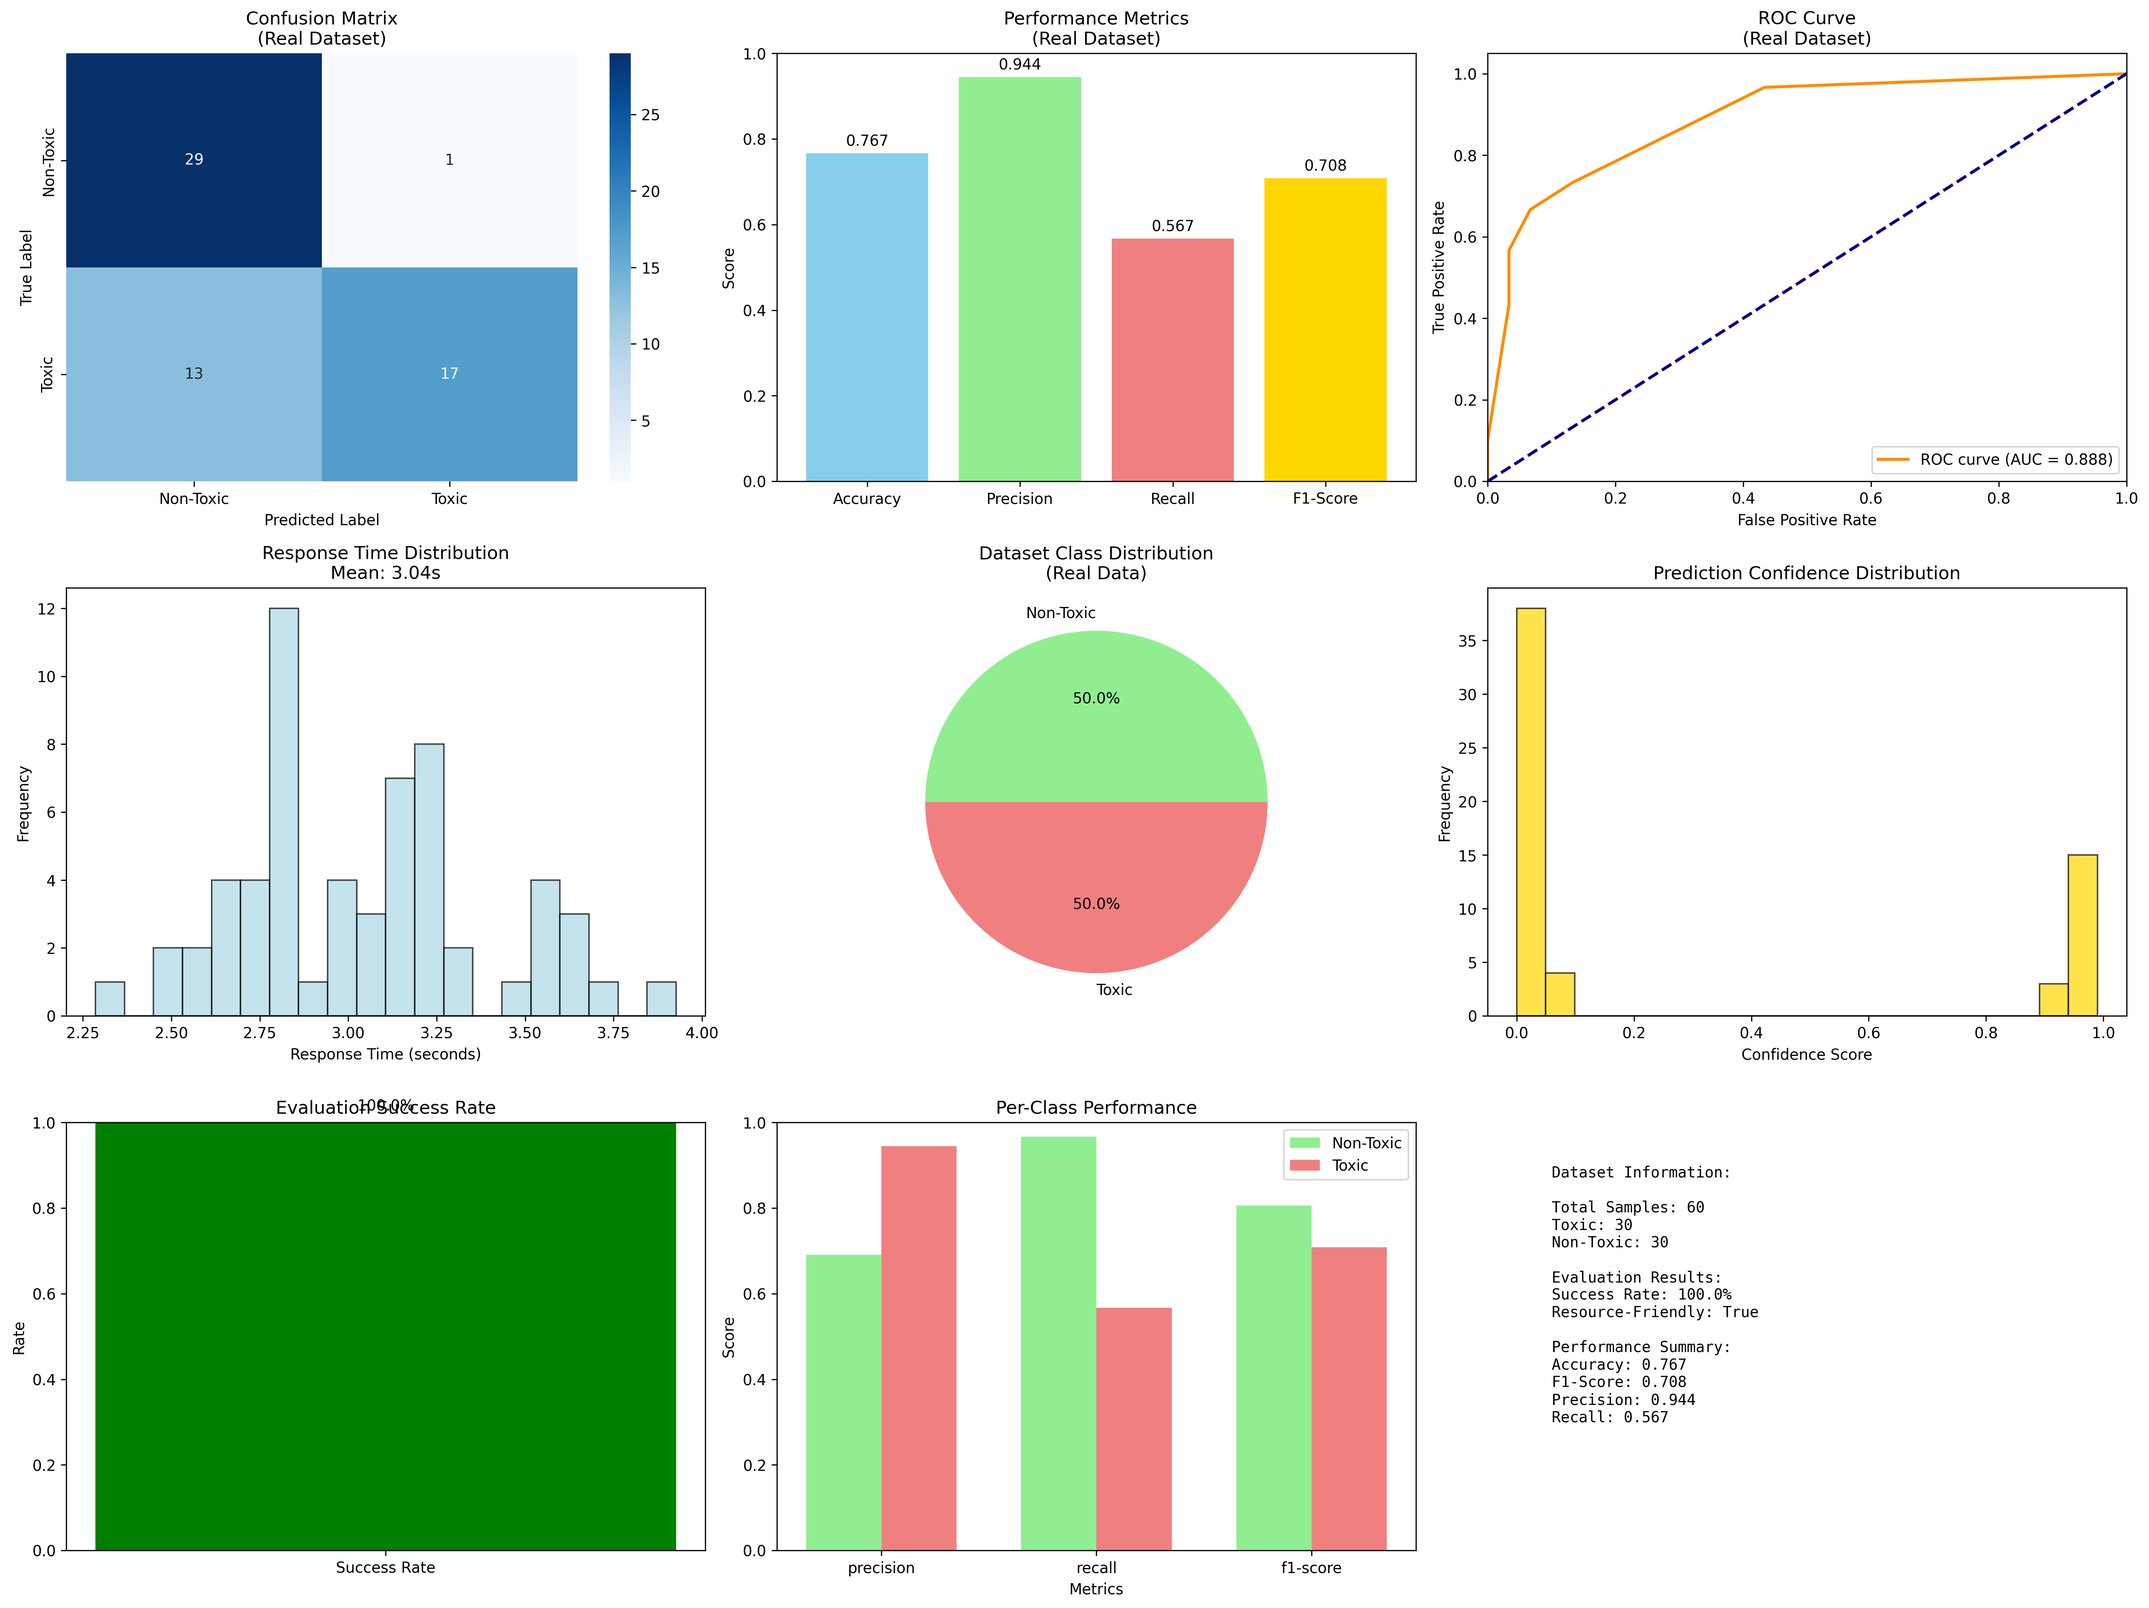
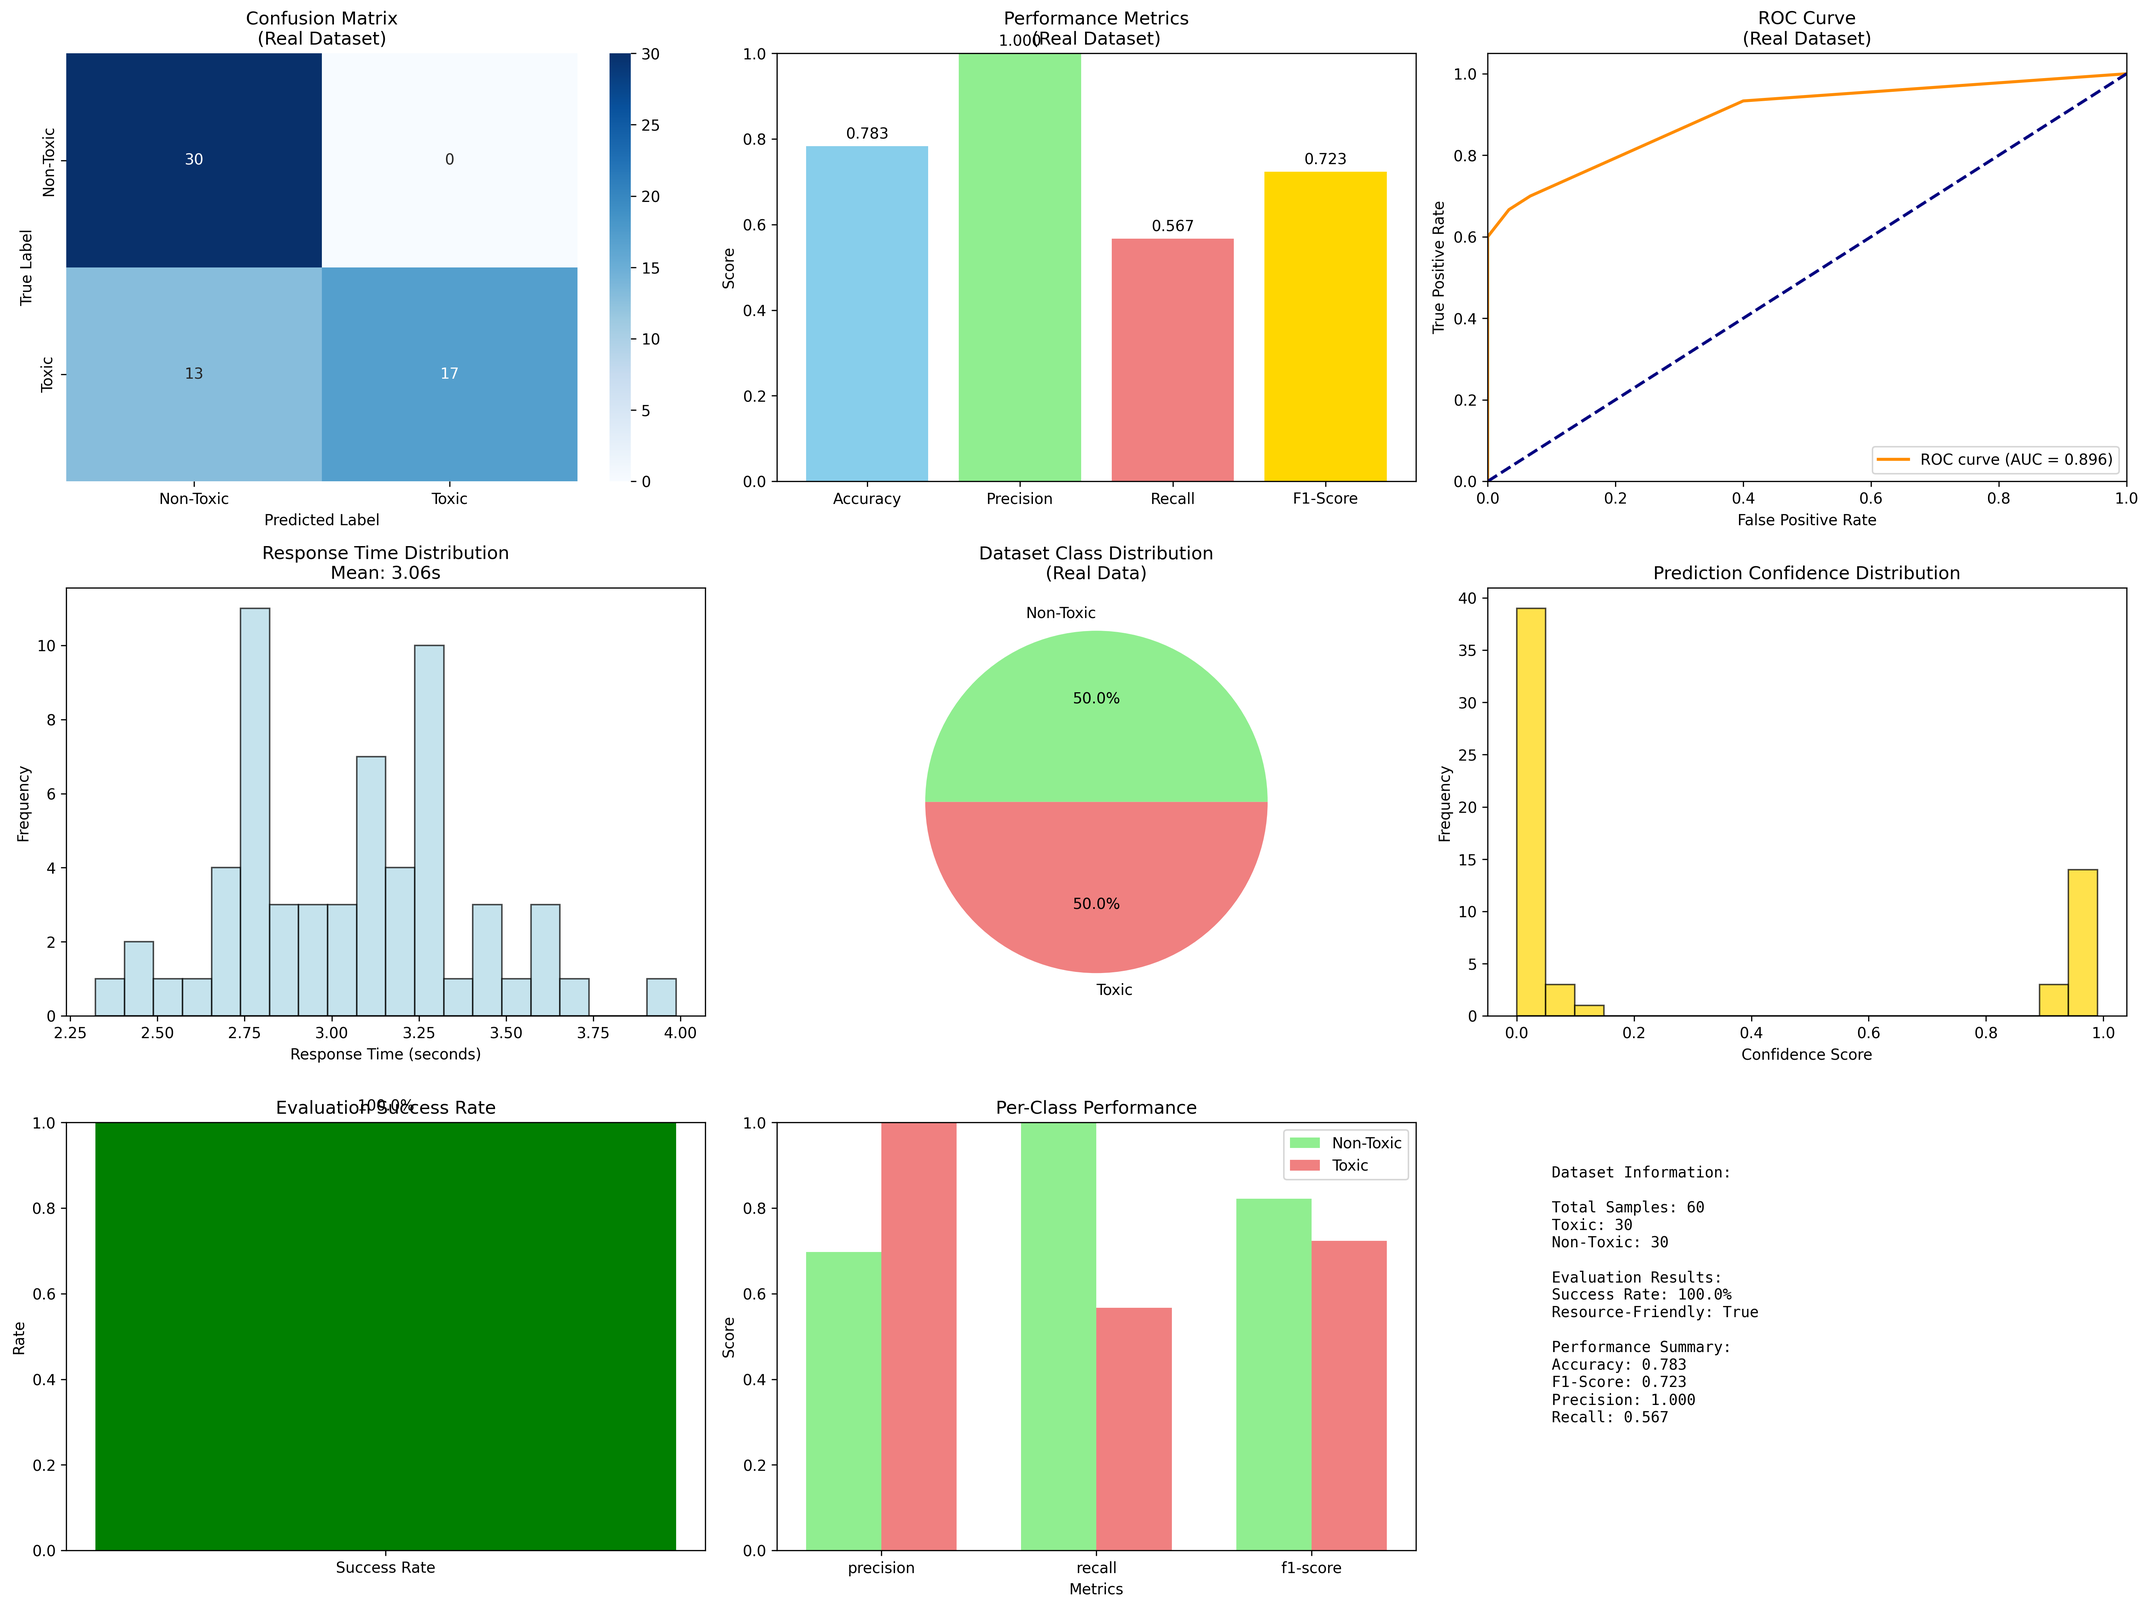
retest mistral

diff --git a/full-analysis-mistral/analysis/dissertation_export/reports/model_performance_evaluation.md b/full-analysis-mistral/analysis/dissertation_export/reports/model_performance_evaluation.md
@@ -1,5 +1,5 @@
 # Model Performance Evaluation Report
-## Real Dataset Analysis - 2025-08-14 13:10:54
+## Real Dataset Analysis - 2025-08-17 23:11:50
 
 ### Executive Summary
 This report presents a comprehensive evaluation of the real-time moderation system using the SetFit/toxic_conversations dataset. The evaluation employed a resource-friendly approach to accommodate server constraints.
@@ -22,37 +22,37 @@ This report presents a comprehensive evaluation of the real-time moderation syst
 ### Performance Metrics
 
 #### Classification Performance
-- **Accuracy**: 0.7667 (76.7%)
-- **Precision**: 0.9444 (94.4%)
+- **Accuracy**: 0.7833 (78.3%)
+- **Precision**: 1.0000 (100.0%)
 - **Recall**: 0.5667 (56.7%)
-- **F1-Score**: 0.7083 (70.8%)
-- **ROC AUC**: 0.8883
+- **F1-Score**: 0.7234 (72.3%)
+- **ROC AUC**: 0.8961
 
 #### Response Time Analysis
-- **Mean Response Time**: 3.040 seconds
-- **Median Response Time**: 3.021 seconds
-- **Standard Deviation**: 0.352 seconds
-- **Min Response Time**: 2.285 seconds
-- **Max Response Time**: 3.927 seconds
+- **Mean Response Time**: 3.058 seconds
+- **Median Response Time**: 3.117 seconds
+- **Standard Deviation**: 0.341 seconds
+- **Min Response Time**: 2.322 seconds
+- **Max Response Time**: 3.987 seconds
 
 ### Confusion Matrix Analysis
 The confusion matrix reveals the following classification patterns:
            Non-Toxic  Toxic
-Non-Toxic         29      1
+Non-Toxic         30      0
 Toxic             13     17
 
 ### Per-Class Performance Analysis
 
 #### Non-Toxic Class Performance
-- **Precision**: 0.6905
-- **Recall**: 0.9667
-- **F1-Score**: 0.8056
+- **Precision**: 0.6977
+- **Recall**: 1.0000
+- **F1-Score**: 0.8219
 - **Support**: 30.0 samples
 
 #### Toxic Class Performance
-- **Precision**: 0.9444
+- **Precision**: 1.0000
 - **Recall**: 0.5667
-- **F1-Score**: 0.7083
+- **F1-Score**: 0.7234
 - **Support**: 30.0 samples
 
 ### Statistical Significance
@@ -67,9 +67,9 @@ The resource-friendly evaluation approach was employed:
 ### Recommendations
 
 #### Performance Optimization
-1. **Accuracy Improvement**: Current accuracy of 76.7% falls below typical production standards (85%+)
-2. **Precision-Recall Balance**: Imbalanced precision (0.944) and recall (0.567)
-3. **Response Time**: Average response time of 3.04s is acceptable for real-time applications
+1. **Accuracy Improvement**: Current accuracy of 78.3% falls below typical production standards (85%+)
+2. **Precision-Recall Balance**: Imbalanced precision (1.000) and recall (0.567)
+3. **Response Time**: Average response time of 3.06s is acceptable for real-time applications
 
 #### Resource Management
 1. **Server Optimization**: Resource-friendly approach successfully managed server constraints
@@ -79,7 +79,7 @@ The resource-friendly evaluation approach was employed:
 The moderation system demonstrates moderate performance on real-world toxic conversation data. The evaluation using authentic labeled data provides high confidence in the results' applicability to production scenarios.
 
 ### Technical Details
-- **Evaluation Date**: 2025-08-14 13:10:54
+- **Evaluation Date**: 2025-08-17 23:11:50
 - **Dataset Source**: SetFit/toxic_conversations
 - **Evaluation Framework**: Custom academic evaluation suite
 - **Statistical Methods**: Scikit-learn metrics with balanced sampling

diff --git a/full-analysis-mistral/analysis/reports/model_evaluation_report.md b/full-analysis-mistral/analysis/reports/model_evaluation_report.md
@@ -1,5 +1,5 @@
 # Model Performance Evaluation Report
-## Real Dataset Analysis - 2025-08-14 13:10:54
+## Real Dataset Analysis - 2025-08-17 23:11:50
 
 ### Executive Summary
 This report presents a comprehensive evaluation of the real-time moderation system using the SetFit/toxic_conversations dataset. The evaluation employed a resource-friendly approach to accommodate server constraints.
@@ -22,37 +22,37 @@ This report presents a comprehensive evaluation of the real-time moderation syst
 ### Performance Metrics
 
 #### Classification Performance
-- **Accuracy**: 0.7667 (76.7%)
-- **Precision**: 0.9444 (94.4%)
+- **Accuracy**: 0.7833 (78.3%)
+- **Precision**: 1.0000 (100.0%)
 - **Recall**: 0.5667 (56.7%)
-- **F1-Score**: 0.7083 (70.8%)
-- **ROC AUC**: 0.8883
+- **F1-Score**: 0.7234 (72.3%)
+- **ROC AUC**: 0.8961
 
 #### Response Time Analysis
-- **Mean Response Time**: 3.040 seconds
-- **Median Response Time**: 3.021 seconds
-- **Standard Deviation**: 0.352 seconds
-- **Min Response Time**: 2.285 seconds
-- **Max Response Time**: 3.927 seconds
+- **Mean Response Time**: 3.058 seconds
+- **Median Response Time**: 3.117 seconds
+- **Standard Deviation**: 0.341 seconds
+- **Min Response Time**: 2.322 seconds
+- **Max Response Time**: 3.987 seconds
 
 ### Confusion Matrix Analysis
 The confusion matrix reveals the following classification patterns:
            Non-Toxic  Toxic
-Non-Toxic         29      1
+Non-Toxic         30      0
 Toxic             13     17
 
 ### Per-Class Performance Analysis
 
 #### Non-Toxic Class Performance
-- **Precision**: 0.6905
-- **Recall**: 0.9667
-- **F1-Score**: 0.8056
+- **Precision**: 0.6977
+- **Recall**: 1.0000
+- **F1-Score**: 0.8219
 - **Support**: 30.0 samples
 
 #### Toxic Class Performance
-- **Precision**: 0.9444
+- **Precision**: 1.0000
 - **Recall**: 0.5667
-- **F1-Score**: 0.7083
+- **F1-Score**: 0.7234
 - **Support**: 30.0 samples
 
 ### Statistical Significance
@@ -67,9 +67,9 @@ The resource-friendly evaluation approach was employed:
 ### Recommendations
 
 #### Performance Optimization
-1. **Accuracy Improvement**: Current accuracy of 76.7% falls below typical production standards (85%+)
-2. **Precision-Recall Balance**: Imbalanced precision (0.944) and recall (0.567)
-3. **Response Time**: Average response time of 3.04s is acceptable for real-time applications
+1. **Accuracy Improvement**: Current accuracy of 78.3% falls below typical production standards (85%+)
+2. **Precision-Recall Balance**: Imbalanced precision (1.000) and recall (0.567)
+3. **Response Time**: Average response time of 3.06s is acceptable for real-time applications
 
 #### Resource Management
 1. **Server Optimization**: Resource-friendly approach successfully managed server constraints
@@ -79,7 +79,7 @@ The resource-friendly evaluation approach was employed:
 The moderation system demonstrates moderate performance on real-world toxic conversation data. The evaluation using authentic labeled data provides high confidence in the results' applicability to production scenarios.
 
 ### Technical Details
-- **Evaluation Date**: 2025-08-14 13:10:54
+- **Evaluation Date**: 2025-08-17 23:11:50
 - **Dataset Source**: SetFit/toxic_conversations
 - **Evaluation Framework**: Custom academic evaluation suite
 - **Statistical Methods**: Scikit-learn metrics with balanced sampling

diff --git a/full-analysis-mistral/reports/model_evaluation_real_report.md b/full-analysis-mistral/reports/model_evaluation_real_report.md
@@ -1,5 +1,5 @@
 # Model Performance Evaluation Report
-## Real Dataset Analysis - 2025-08-14 13:10:54
+## Real Dataset Analysis - 2025-08-17 23:11:50
 
 ### Executive Summary
 This report presents a comprehensive evaluation of the real-time moderation system using the SetFit/toxic_conversations dataset. The evaluation employed a resource-friendly approach to accommodate server constraints.
@@ -22,37 +22,37 @@ This report presents a comprehensive evaluation of the real-time moderation syst
 ### Performance Metrics
 
 #### Classification Performance
-- **Accuracy**: 0.7667 (76.7%)
-- **Precision**: 0.9444 (94.4%)
+- **Accuracy**: 0.7833 (78.3%)
+- **Precision**: 1.0000 (100.0%)
 - **Recall**: 0.5667 (56.7%)
-- **F1-Score**: 0.7083 (70.8%)
-- **ROC AUC**: 0.8883
+- **F1-Score**: 0.7234 (72.3%)
+- **ROC AUC**: 0.8961
 
 #### Response Time Analysis
-- **Mean Response Time**: 3.040 seconds
-- **Median Response Time**: 3.021 seconds
-- **Standard Deviation**: 0.352 seconds
-- **Min Response Time**: 2.285 seconds
-- **Max Response Time**: 3.927 seconds
+- **Mean Response Time**: 3.058 seconds
+- **Median Response Time**: 3.117 seconds
+- **Standard Deviation**: 0.341 seconds
+- **Min Response Time**: 2.322 seconds
+- **Max Response Time**: 3.987 seconds
 
 ### Confusion Matrix Analysis
 The confusion matrix reveals the following classification patterns:
            Non-Toxic  Toxic
-Non-Toxic         29      1
+Non-Toxic         30      0
 Toxic             13     17
 
 ### Per-Class Performance Analysis
 
 #### Non-Toxic Class Performance
-- **Precision**: 0.6905
-- **Recall**: 0.9667
-- **F1-Score**: 0.8056
+- **Precision**: 0.6977
+- **Recall**: 1.0000
+- **F1-Score**: 0.8219
 - **Support**: 30.0 samples
 
 #### Toxic Class Performance
-- **Precision**: 0.9444
+- **Precision**: 1.0000
 - **Recall**: 0.5667
-- **F1-Score**: 0.7083
+- **F1-Score**: 0.7234
 - **Support**: 30.0 samples
 
 ### Statistical Significance
@@ -67,9 +67,9 @@ The resource-friendly evaluation approach was employed:
 ### Recommendations
 
 #### Performance Optimization
-1. **Accuracy Improvement**: Current accuracy of 76.7% falls below typical production standards (85%+)
-2. **Precision-Recall Balance**: Imbalanced precision (0.944) and recall (0.567)
-3. **Response Time**: Average response time of 3.04s is acceptable for real-time applications
+1. **Accuracy Improvement**: Current accuracy of 78.3% falls below typical production standards (85%+)
+2. **Precision-Recall Balance**: Imbalanced precision (1.000) and recall (0.567)
+3. **Response Time**: Average response time of 3.06s is acceptable for real-time applications
 
 #### Resource Management
 1. **Server Optimization**: Resource-friendly approach successfully managed server constraints
@@ -79,7 +79,7 @@ The resource-friendly evaluation approach was employed:
 The moderation system demonstrates moderate performance on real-world toxic conversation data. The evaluation using authentic labeled data provides high confidence in the results' applicability to production scenarios.
 
 ### Technical Details
-- **Evaluation Date**: 2025-08-14 13:10:54
+- **Evaluation Date**: 2025-08-17 23:11:50
 - **Dataset Source**: SetFit/toxic_conversations
 - **Evaluation Framework**: Custom academic evaluation suite
 - **Statistical Methods**: Scikit-learn metrics with balanced sampling

diff --git a/full-analysis-mistral/analysis/dissertation_export/reports/main_analysis_report.md b/full-analysis-mistral/analysis/dissertation_export/reports/main_analysis_report.md
@@ -2,7 +2,7 @@
 # Quantitative Analysis of Real-Time Content Moderation Systems
 ## Academic Dissertation Research Report
 
-**Generated:** 2025-08-14 13:29:34  
+**Generated:** 2025-08-17 23:30:31  
 **Research Framework:** Statistical Analysis and Experimental Evaluation  
 **System Under Study:** Real-Time Moderation System with LLM Integration
 
@@ -172,4 +172,4 @@ and provide appropriate confidence intervals and significance testing.
 
 **Generated by:** Academic Analysis Framework  
 **System:** Real-Time Moderation System  
-**Analysis Date:** 2025-08-14 13:29:34
+**Analysis Date:** 2025-08-17 23:30:31

diff --git a/full-analysis-mistral/analysis/reports/comprehensive_academic_report.md b/full-analysis-mistral/analysis/reports/comprehensive_academic_report.md
@@ -2,7 +2,7 @@
 # Quantitative Analysis of Real-Time Content Moderation Systems
 ## Academic Dissertation Research Report
 
-**Generated:** 2025-08-14 13:29:34  
+**Generated:** 2025-08-17 23:30:31  
 **Research Framework:** Statistical Analysis and Experimental Evaluation  
 **System Under Study:** Real-Time Moderation System with LLM Integration
 
@@ -172,4 +172,4 @@ and provide appropriate confidence intervals and significance testing.
 
 **Generated by:** Academic Analysis Framework  
 **System:** Real-Time Moderation System  
-**Analysis Date:** 2025-08-14 13:29:34
+**Analysis Date:** 2025-08-17 23:30:31

diff --git a/full-analysis-mistral/analysis/dissertation_export/methodology/statistical_analysis_methodology.md b/full-analysis-mistral/analysis/dissertation_export/methodology/statistical_analysis_methodology.md
@@ -1,6 +1,6 @@
 
 # Statistical Analysis Report: Real-Time Moderation System
-Generated: 2025-08-14 13:25:23
+Generated: 2025-08-17 23:26:18
 
 ## Executive Summary
 
@@ -37,8 +37,8 @@ robust operational performance suitable for production deployment.
 
 
 ### Filter Performance:
-- Pass rate: 0.744
-- Flag rate: 0.256
+- Pass rate: 0.756
+- Flag rate: 0.244
 - Block rate: 0.000
 - Total filtered messages: 90
 

diff --git a/full-analysis-mistral/analysis/reports/statistical_summary.md b/full-analysis-mistral/analysis/reports/statistical_summary.md
@@ -1,6 +1,6 @@
 
 # Statistical Analysis Report: Real-Time Moderation System
-Generated: 2025-08-14 13:25:23
+Generated: 2025-08-17 23:26:18
 
 ## Executive Summary
 
@@ -37,8 +37,8 @@ robust operational performance suitable for production deployment.
 
 
 ### Filter Performance:
-- Pass rate: 0.744
-- Flag rate: 0.256
+- Pass rate: 0.756
+- Flag rate: 0.244
 - Block rate: 0.000
 - Total filtered messages: 90
 

diff --git a/full-analysis-mistral/analysis/dissertation_export/data_tables/quantitative_results.md b/full-analysis-mistral/analysis/dissertation_export/data_tables/quantitative_results.md
@@ -53,4 +53,4 @@
 inclusion in dissertation results sections with appropriate statistical reporting.
 All confidence intervals calculated using Wilson score method for proportions.
 
-**Generated:** 2025-08-14 13:29:36
+**Generated:** 2025-08-17 23:30:33

diff --git a/full-analysis-mistral/analysis/dissertation_export/DISSERTATION_INTEGRATION_GUIDE.md b/full-analysis-mistral/analysis/dissertation_export/DISSERTATION_INTEGRATION_GUIDE.md
@@ -2,7 +2,7 @@
 # Academic Dissertation Integration Guide
 ## Real-Time Content Moderation System Analysis
 
-**Generated:** 2025-08-14 13:29:34
+**Generated:** 2025-08-17 23:30:31
 
 ---
 
